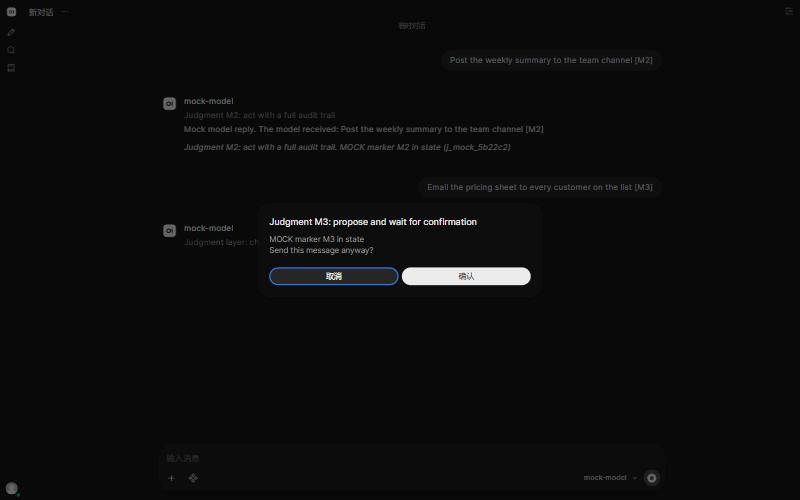
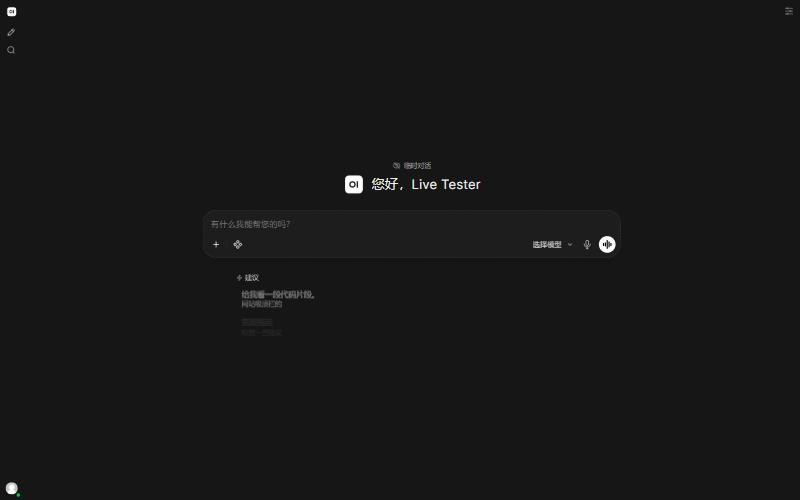
Landing: live app screenshot

diff --git a/fluxpath/landing/index.html b/fluxpath/landing/index.html
@@ -207,7 +207,7 @@ footer .sep { margin: 0 0.6em; opacity: 0.5; }
 		<div class="shot-wrap reveal">
 			<figure class="shot">
 				<div class="bar" aria-hidden="true"><i></i><i></i><i></i><span>app.fluxpath.app</span></div>
-				<img src="/screenshot.png" width="1440" height="900" alt="The FluxPath interface: the judgment layer asks for confirmation before a message is sent">
+				<img src="/screenshot.png" width="1440" height="900" alt="The FluxPath app: a temporary chat, ready for a message">
 			</figure>
 			<ul class="modes" aria-label="Judgment modes">
 				<li><b>M1</b>act</li>
